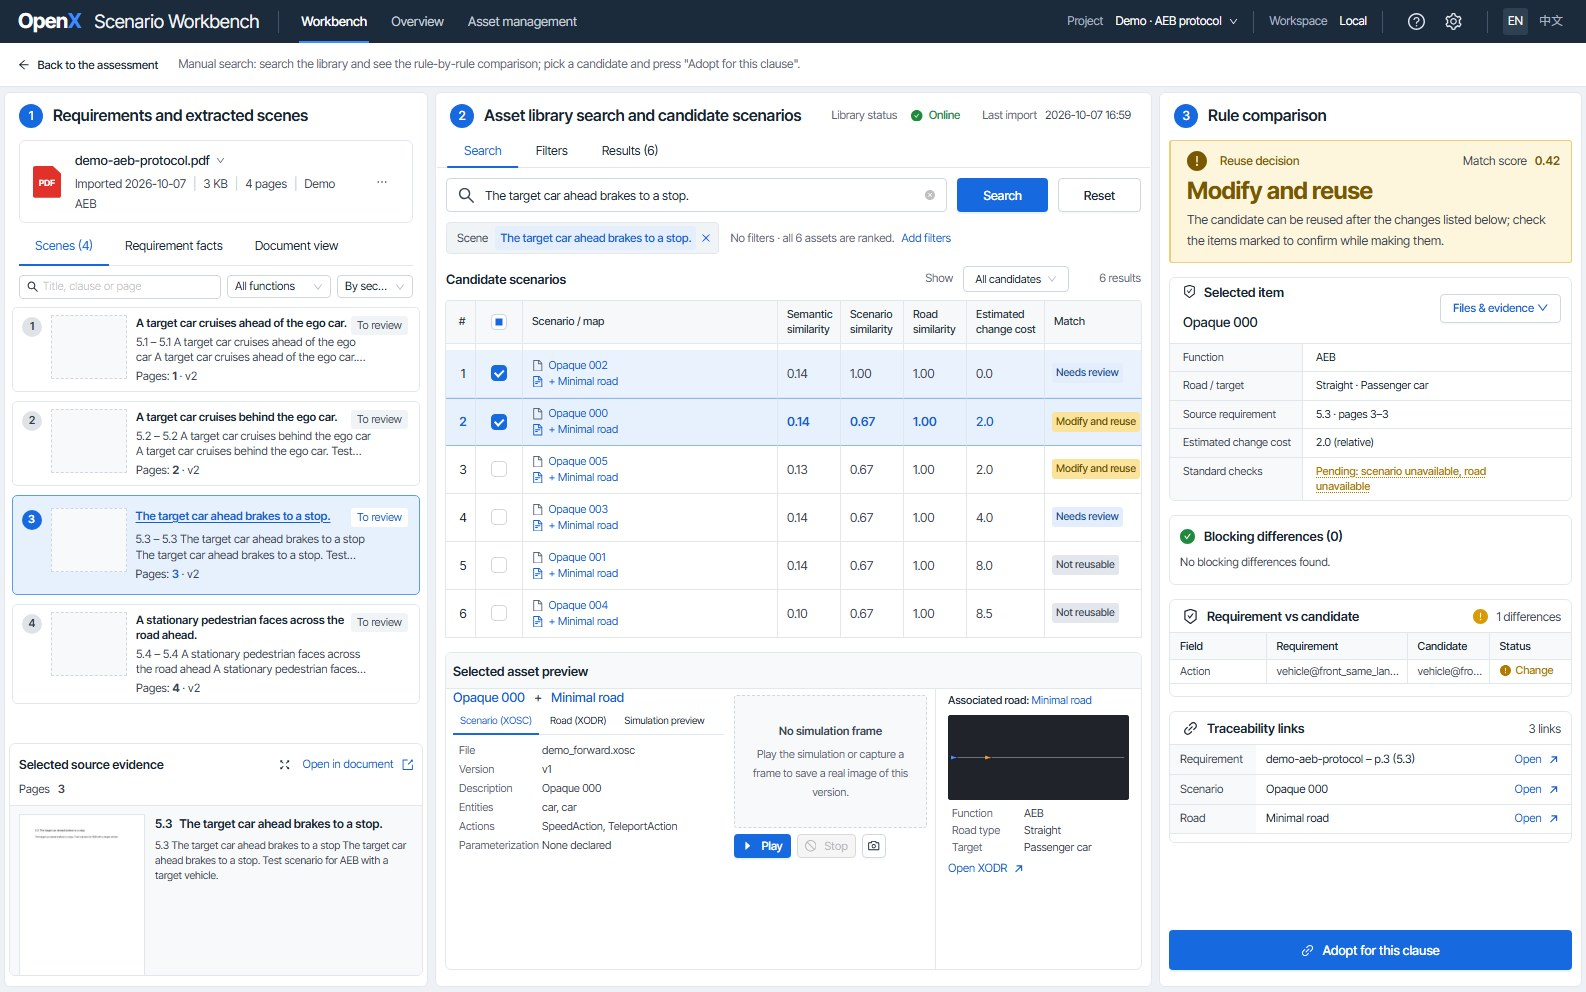
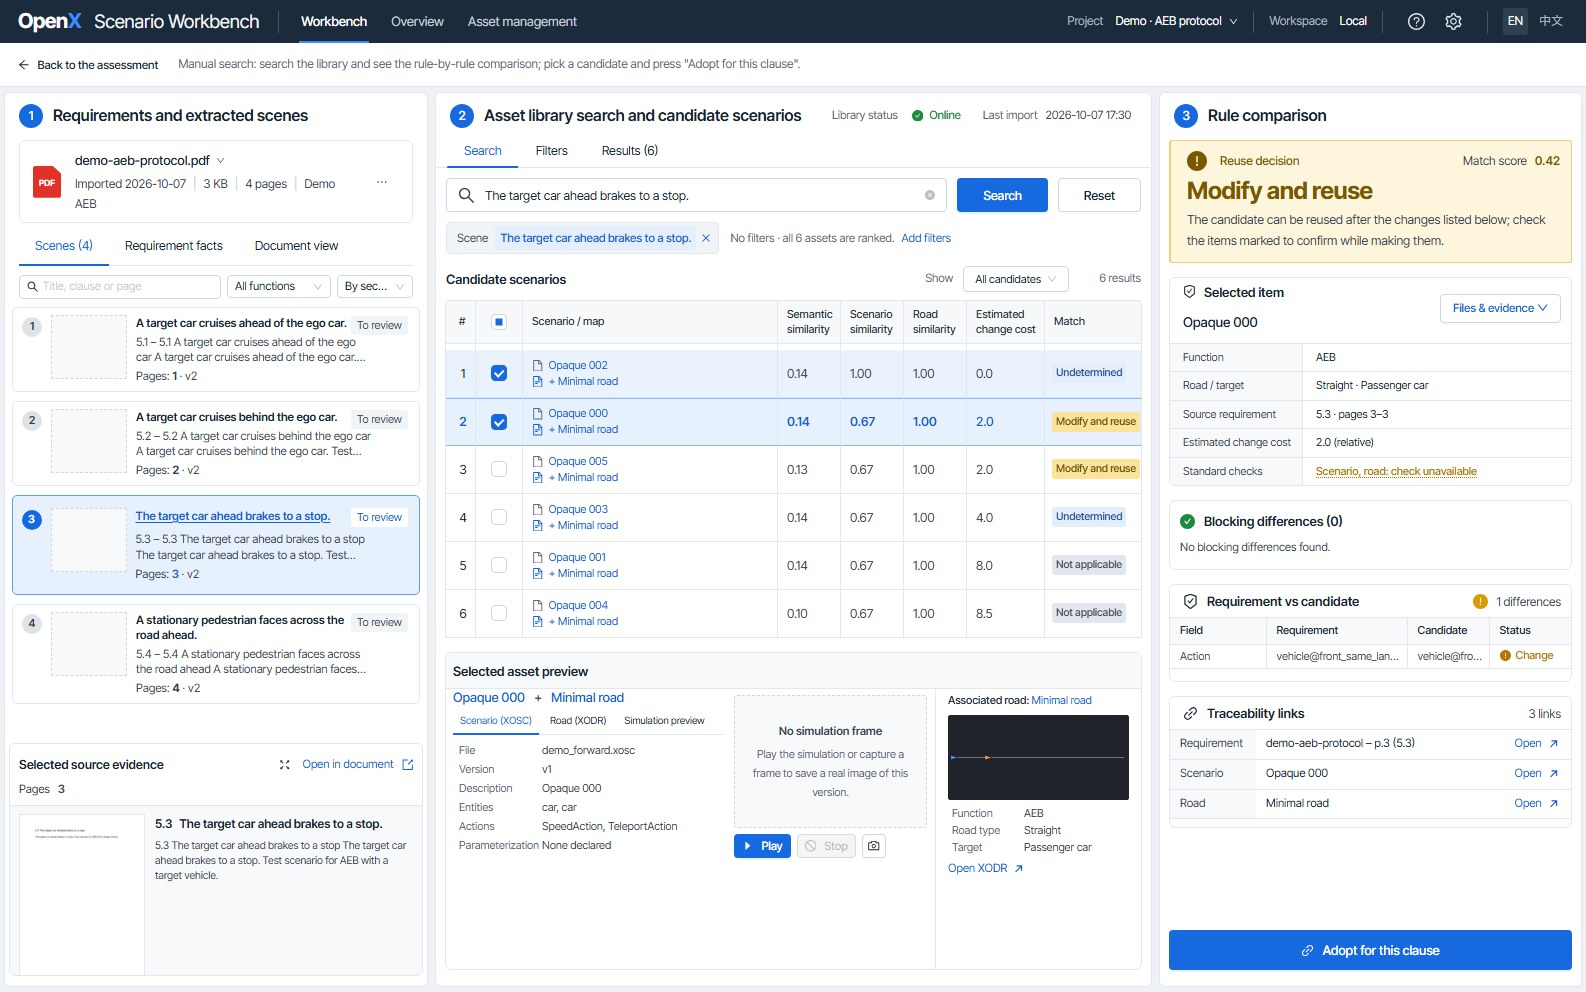
feat(web): rate manual search candidates on the four reuse levels
Manual search named the rule verdicts in its own words (needs review, file standards
need review, not reusable, major modification). It now uses the levels the clause
reuse assessment uses for the model and a person: direct reuse, modify and reuse,
not applicable, undetermined. Why a candidate is undetermined, or close to a new
build, is told by the line under the level. The Show filter keeps one level, and the
open standard checks read in words, files with the same status named together.

diff --git a/web/src/components/DecisionPanel.tsx b/web/src/components/DecisionPanel.tsx
@@ -11,23 +11,34 @@ import {
   QuestionCircleFilled,
   SafetyCertificateOutlined,
 } from "@ant-design/icons";
-import { api, categoryLabel, LEVEL, urls, verdictLabel, type Candidate, type Difference, type Lang } from "../api";
+import { api, categoryLabel, LEVEL, urls, type Candidate, type Difference, type Lang } from "../api";
 import { useT } from "../i18n";
 import { useNames } from "../names";
 import { valueLabel } from "../vocab";
 import type { SceneRef } from "../App";
 import { ArrowUpRight } from "./ArrowUpRight";
-import { ExplanationDialog, SourceFilesDialog, StandardChecksDialog } from "./AssessmentDialogs";
+import { CHECK_LABELS, ExplanationDialog, SourceFilesDialog, StandardChecksDialog } from "./AssessmentDialogs";
 
 const SUB: Record<string, [string, string]> = {
   direct: ["候选场景无需修改即可复用。", "The candidate scenario can be reused without modification."],
   modify: ["按下方列出的修改后即可复用；标为“改时确认”的项在修改时核对。", "The candidate can be reused after the changes listed below; check the items marked to confirm while making them."],
   major_modify: ["可以复用，但修改量接近新建：多个参与者或行为需要调整。", "Reusable, but the changes come close to a new build: several participants or behaviors change."],
-  new_build: ["存在阻断差异，无法复用，需要新建场景。", "Blocking differences prevent reuse. Build a new scenario."],
-  standards: ["结构相似，但场景或道路的标准检查未通过或未完成。", "Structure matches, but the scenario or road standard checks have not passed yet."],
-  partial: ["已完成部分结构比较；确认未验证项后才能认定复用。", "Part of the structure was compared. Resolve the unverified items before confirming reuse."],
+  new_build: ["存在阻断差异，这个素材不能用于本条款。", "Blocking differences: this asset cannot be used for the clause."],
+  standards: ["结构一致，但场景或道路文件的标准检查未通过或未完成。", "The structure matches, but the scenario or road file standard checks have not passed yet."],
+  partial: ["已比较部分结构；核对下方未验证的项后才能确定。", "Part of the structure was compared. Check the unverified items below before deciding."],
   undecidable: ["参与者交互或主车动作缺少关键结构，无法判断复用。", "Key participant or ego-action facts are missing, so reuse cannot be assessed."],
-  recall: ["这是文本检索结果。选择 PDF 场景后才能按结构评估复用。", "Text-only match. Select a PDF scene to assess reuse structurally."],
+  recall: ["这是文本检索结果。选择 PDF 条款后才能按结构评估复用。", "Text-only match. Select a PDF clause to assess reuse structurally."],
+};
+
+/** The files whose standard check is still open, those with the same status named together. */
+const pendingText = (pending: Record<string, string>, lang: Lang) => {
+  const groups = new Map<string, string[]>();
+  for (const [role, status] of Object.entries(pending)) {
+    const label = (CHECK_LABELS[status] ?? CHECK_LABELS.unavailable)[lang === "zh" ? 0 : 1];
+    groups.set(label, [...(groups.get(label) ?? []), role === "road" ? (lang === "zh" ? "道路" : "road") : (lang === "zh" ? "场景" : "scenario")]);
+  }
+  return [...groups].map(([label, roles]) => lang === "zh" ? `${roles.join("、")}：${label}` : `${roles.join(", ").replace(/^./, (m) => m.toUpperCase())}: ${label.toLowerCase()}`)
+    .join(lang === "zh" ? "；" : "; ");
 };
 
 // Only an unverified core fact needs review; an adjustable one is confirmed while making the change,
@@ -138,7 +149,7 @@ export function DecisionPanel({ sceneRef, cand, searching, query, lang, onReview
             </span>
           </Tooltip>
         </div>
-        <div className="big">{verdictLabel(cand.level, cand.review_kind, lang)}</div>
+        <div className="big">{level[lang]}</div>
         <div className="sub">{t(...SUB[cand.level === "review" ? (SUB[cand.review_kind] ? cand.review_kind : "partial") : cand.level])}</div>
         {cand.level === "review" && scene && cand.review_kind !== "standards" && (
           <Button size="small" className="review-facts" onClick={onReviewFacts}>{t("返回核对需求事实", "Review requirement facts")}</Button>
@@ -190,7 +201,7 @@ export function DecisionPanel({ sceneRef, cand, searching, query, lang, onReview
           <span>{t("标准检查", "Standard checks")}</span>
           <span className={std.passed ? "cost-Low" : "cost-Medium"}>
             <a className="plain-link" onClick={() => setDialog("checks")}>
-              {std.passed ? t("已通过", "Passed") : `${t("待完成：", "Pending: ")}${Object.entries(std.pending).map(([k, v]) => `${k} ${v}`).join(", ")}`}
+              {std.passed ? t("已通过", "Passed") : pendingText(std.pending, lang)}
             </a>
           </span>
         </div>

diff --git a/web/src/api.ts b/web/src/api.ts
@@ -195,34 +195,20 @@ export const urls = {
   file: (c: VersionRef, role: "scenario" | "road") => `/api/assets/${c.asset_id}/versions/${c.version_id}/files/${role}`,
 };
 
-export const LEVEL: Record<Level, { zh: string; en: string; cls: "direct" | "modify" | "review" | "not" }> = {
+// The rules' verdicts on the four reuse levels the model and a person use; the sub-kind of a
+// review and a major modification are told by the explanation under the level, not by its name.
+export const LEVEL: Record<Level, { zh: string; en: string; cls: ReuseClass }> = {
   direct: { zh: "直接复用", en: "Direct reuse", cls: "direct" },
   modify: { zh: "修改复用", en: "Modify and reuse", cls: "modify" },
-  major_modify: { zh: "大幅修改复用", en: "Major modification", cls: "modify" },
-  review: { zh: "待复核", en: "Needs review", cls: "review" },
-  new_build: { zh: "不可复用", en: "Not reusable", cls: "not" },
+  major_modify: { zh: "修改复用", en: "Modify and reuse", cls: "modify" },
+  review: { zh: "无法判断", en: "Undetermined", cls: "review" },
+  new_build: { zh: "不适用", en: "Not applicable", cls: "not" },
 };
+export type ReuseClass = "direct" | "modify" | "review" | "not";
+export const REUSE_CLASSES: ReuseClass[] = ["direct", "modify", "review", "not"];
+export const classLabel = (cls: ReuseClass, lang: Lang) => Object.values(LEVEL).find((l) => l.cls === cls)![lang];
 
 export const levelLabel = (level: Level, lang: Lang) => LEVEL[level][lang];
-
-// "Needs review" splits into sub-kinds with their own headline, matching the desktop wording.
-const REVIEW_TITLE: Record<string, { zh: string; en: string }> = {
-  standards: { zh: "文件标准待复核", en: "File standards need review" },
-  partial: { zh: "部分已验证 · 待复核", en: "Partially verified · review" },
-  undecidable: { zh: "关键结构不足 · 无法判断", en: "Insufficient structure · undecidable" },
-  recall: { zh: "文本召回 · 待结构验证", en: "Text recall · verify structure" },
-};
-
-export const verdictLabel = (level: Level | "no_candidates" | string, kind: string | null | undefined, lang: Lang, signedOff = false) =>
-  signedOff && level === "review"
-    ? lang === "zh" ? "复核后确认" : "Confirmed after review"
-    : level === "no_candidates"
-    ? lang === "zh" ? "没有候选资产" : "No candidate assets"
-    : level === "review" && kind && REVIEW_TITLE[kind]
-      ? REVIEW_TITLE[kind][lang]
-      : REVIEW_TITLE[level]?.[lang] ?? LEVEL[level as Level]?.[lang] ?? level;
-
-export const verdictClass = (level: string) => LEVEL[level as Level]?.cls ?? (REVIEW_TITLE[level] ? "review" : "not");
 
 export const FACET_LABEL: Record<string, { zh: string; en: string }> = {
   function_type: { zh: "功能", en: "Function" },

diff --git a/web/src/components/SearchPanel.tsx b/web/src/components/SearchPanel.tsx
@@ -1,14 +1,14 @@
 import { useState } from "react";
 import { Alert, Button, Empty, Form, Input, Select, Table, Tabs, Tag, Tooltip, type TableColumnsType } from "antd";
 import { CheckCircleFilled, CloseCircleFilled, CloseOutlined, FileOutlined, FileTextOutlined, SearchOutlined } from "@ant-design/icons";
-import { basename, facetLabel, LEVEL, levelLabel, urls, type Candidate, type Level, type Lang, type Library, type Scene, type SearchResponse } from "../api";
+import { basename, classLabel, facetLabel, LEVEL, levelLabel, REUSE_CLASSES, urls, type Candidate, type Lang, type ReuseClass, type Library, type Scene, type SearchResponse } from "../api";
 import { roadFeatureLabel, valueLabel } from "../vocab";
 import { dateTime, useT } from "../i18n";
 import { useNames } from "../names";
 import { ArrowUpRight } from "./ArrowUpRight";
 import { PreviewPlayer } from "./PreviewPlayer";
 
-type Show = "all" | Level;
+type Show = "all" | ReuseClass;
 
 interface Props {
   query: string;
@@ -43,7 +43,7 @@ export function SearchPanel(p: Props) {
   const [show, setShow] = useState<Show>("all");
   const [tab, setTab] = useState("search");
 
-  const rows = (p.result?.results ?? []).map((c, i) => ({ ...c, idx: i + 1 })).filter((c) => show === "all" || c.level === show);
+  const rows = (p.result?.results ?? []).map((c, i) => ({ ...c, idx: i + 1 })).filter((c) => show === "all" || LEVEL[c.level].cls === show);
 
   const columns: TableColumnsType<Candidate & { idx: number }> = [
     { title: "#", dataIndex: "idx", width: 30, align: "center" },
@@ -259,7 +259,7 @@ export function SearchPanel(p: Props) {
           popupMatchSelectWidth={false}
           options={[
             { value: "all", label: t("全部候选", "All candidates") },
-            ...(Object.keys(LEVEL) as Level[]).map((k) => ({ value: k, label: levelLabel(k, lang) })),
+            ...REUSE_CLASSES.map((k) => ({ value: k, label: classLabel(k, lang) })),
           ]}
         />
         <span className="n">{p.result ? t(`${p.result.total} 个结果`, `${p.result.total} results`) : "—"}</span>

diff --git a/README.md b/README.md
@@ -67,7 +67,7 @@ Similarity over the structural facts finds most right assets, but cannot say whe
 - Imports ScenarioManager-compatible `.sim` ZIP archives, converts their embedded OpenSCENARIO JSON to the same parser input, and pairs cases with contained or separately uploaded `.xodr` roads.
 - Ranks every library asset for a reviewed requirement by blocking differences, then estimated change cost; BGE-M3 (or an explicitly selected offline hashing baseline) orders assets within the same change and serves free-text search.
 - Pairs requested and candidate participants for the fewest blocking differences and compares each participant's own initial speed when the requirement states it.
-- In manual search, gives one of five rule verdicts: direct reuse, modify, major modification (verified changes close to a new build), review, or build new.
+- In manual search, rates each candidate on the assessment's four levels (direct reuse, modify and reuse, not applicable, undetermined); a line under the level says why, such as changes close to a new build or file standard checks still open.
 - Builds participant interaction signatures from type, ego-relative bearing, facing direction, and actor-owned actions.
 - Reports grounded reuse differences such as a mismatched scenario family or participant interaction, or a missing relation, action, trigger, or road feature.
 - Checks road-filename references, missing scenario entities, and missing road elements.

diff --git a/README.zh-CN.md b/README.zh-CN.md
@@ -58,7 +58,7 @@
 - 导入 ScenarioManager 兼容的 `.sim` ZIP，将其中的 OpenSCENARIO JSON 转成统一解析输入，并用归档内或额外上传的 `.xodr` 完成道路配对。
 - 对已复核的需求，全库资产逐一做结构比较，按阻断差异数、再按修改成本排序；BGE-M3（或显式选择的离线哈希基线）只在修改量相同的候选之间排序，并用于自由文本检索。
 - 参与者按阻断差异最少的方式一一配对；需求写明某个参与者的初始速度时，按参与者逐个比较速度。
-- 手动检索中的规则结论分五级：直接复用、修改复用、大幅修改复用（已核实的修改量接近新建）、待复核、新建。
+- 手动检索中的规则结论与评估表用同一套四档：直接复用、修改复用、不适用、无法判断；结论下方一句话说明原因，如修改量接近新建、文件标准检查未完成。
 - 输出缺少参与者、动作、触发器或道路特征等有依据的复用差异。
 - 检查道路文件名引用是否一致、场景是否缺少参与者、道路文件是否缺少 road 元素。
 - 提供中英双语的工作台、总览和资产管理；工作台并排显示所选需求的证据、候选和复用判断，耗时的导入以后台任务运行并显示进度。
